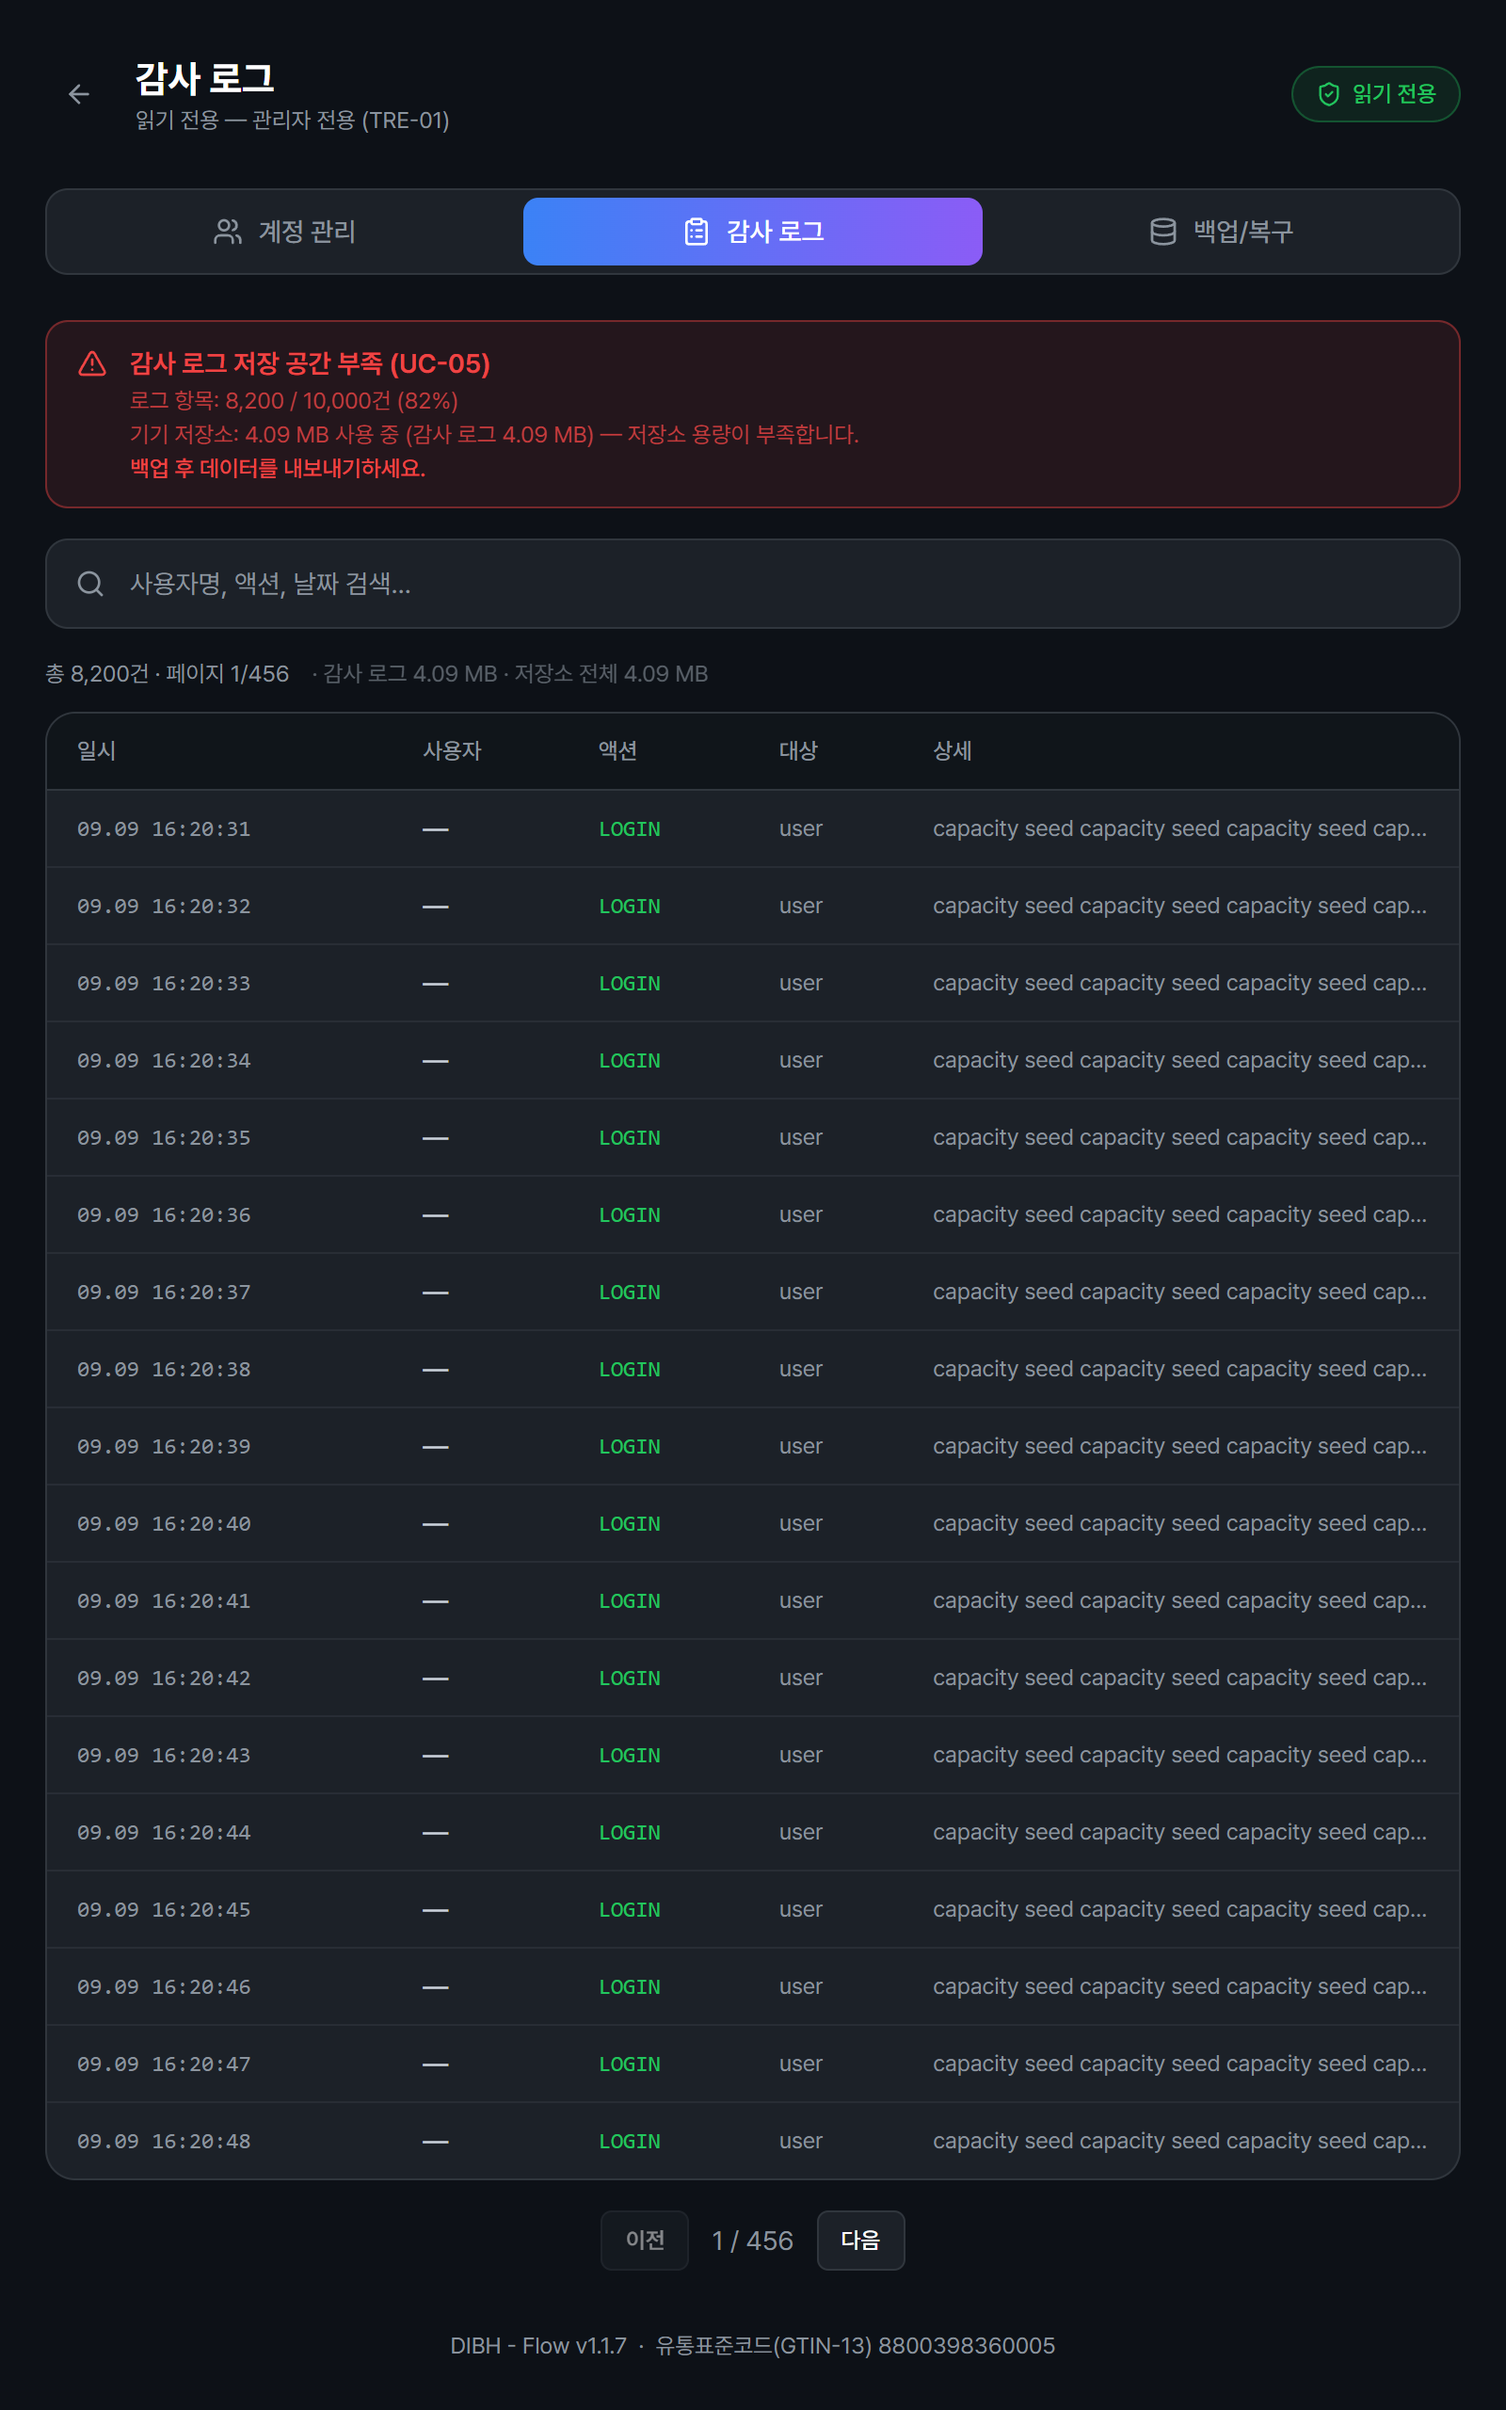
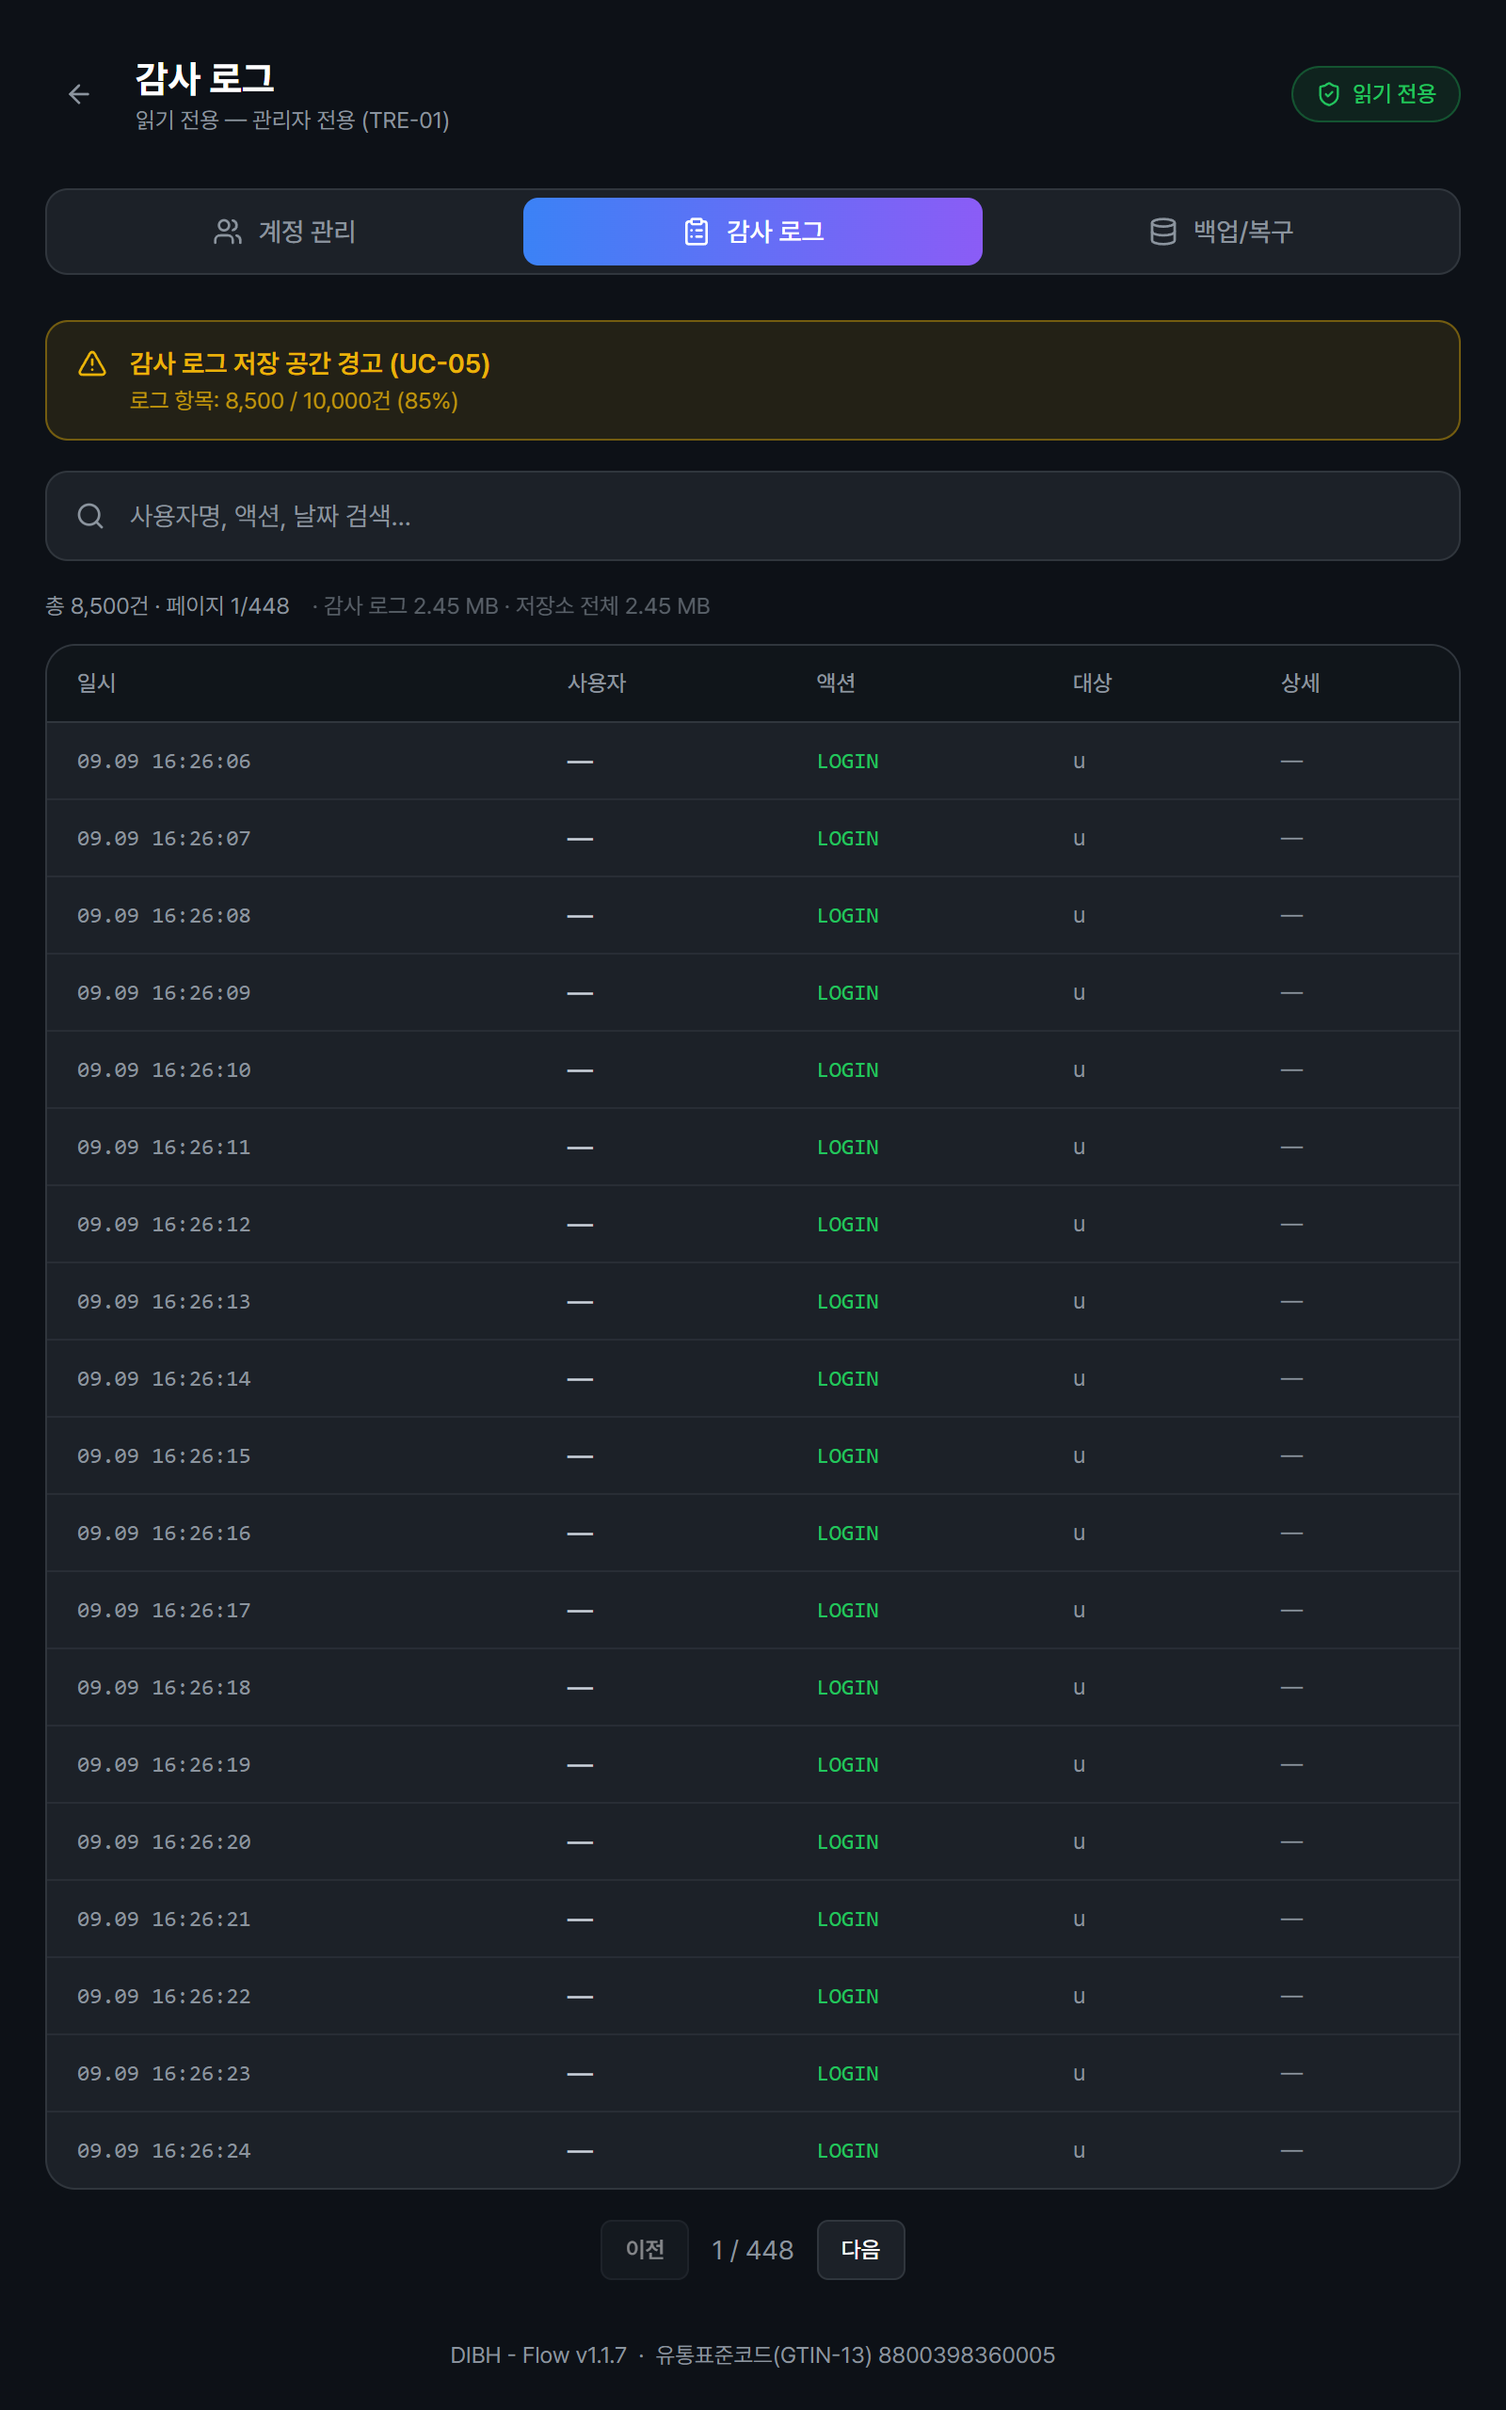
docs(si07): remove two mislabelled frames and two retry duplicates
53 frames now, still covering 76 messages — nothing of evidentiary value was
lost, which the regenerated coverage report confirms.

Two of the four removed were worse than redundant: their filenames named a
message the frame did not actually contain.

  M025_비밀번호_정책_오류…  showed the modal's static requirement checklist,
      captured before submitting — the validatePassword strings (#25-#29)
      only render after a submit, so the frame proved #18/#19 and not the
      messages its name claimed.
  M040_감사_로그_저장_공간_경고  was seeded past 90%, so the banner read
      부족 (critical), not 경고. It was a duplicate of M039 wearing the wrong
      name.

Both names now belong to frames that really do show those messages. A
reviewer opening a file by its name gets what the name says.

The other two (M020b, M023b) were retries I wrote while the original case
appeared to be failing; once the shared modal-targeting fix landed, both the
original and the retry passed and proved the same pair.

Adds frame-index.md mapping every PNG to the message numbers it contains and
how it was obtained, so the 53-vs-76 difference is visible rather than
something the reader has to take on trust.

diff --git a/docs/submission/evidence/v1.1.7-error-list/frame-index.md b/docs/submission/evidence/v1.1.7-error-list/frame-index.md
@@ -1,0 +1,62 @@
+# 캡처 프레임 ↔ 메시지 대응표
+
+PNG 53장이 커버하는 메시지를 각 프레임의 **화면 전체 텍스트**와 목록 문구를
+대조하여 산출한 표입니다. 한 장에 여러 메시지가 담기므로 장수와 메시지 수는 다릅니다.
+
+| 파일 | 담긴 메시지 | 획득 방식 |
+|---|---|---|
+| `M001_암호화_키_오류_실기기.png` | #1, #2 | 실기기 |
+| `M003_무결성_검사_실패_파일변조_실기기.png` | #3, #4, #13 | 실기기 |
+| `M007_Web_Crypto_API_사용_불가.png` | #5, #6, #7 | user-action |
+| `M008_암호화_자가진단_실패.png` | #5, #6, #8 | user-action |
+| `M009_sessionStorage_사용_불가.png` | #5, #6, #9 | user-action |
+| `M010_localStorage_사용_불가.png` | #5, #6, #10 | user-action |
+| `M011_무결성_매니페스트_로드불가_실기기.png` | #3, #4, #11 | 실기기 |
+| `M012_무결성_검사_파일_로드_실패_실기기.png` | #3, #4, #12 | 실기기 |
+| `M014_아이디_또는_비밀번호가_올바르지_않습니다_(남은_시도).png` | #14 | user-action |
+| `M015_로그인_시도_횟수를_초과하여_계정이_잠금되었습니다.png` | #15 | user-action |
+| `M016_계정이_잠금되었습니다_약_N분_후_다시_시도.png` | #16 | user-action |
+| `M017_이_계정의_데이터가_손상되어_복호화할_수_없습니다.png` | #17 | user-action |
+| `M018_초기_비밀번호_변경_필요.png` | #18, #19 | user-action |
+| `M020_비밀번호_변경_주기_도래.png` | #20, #21 | user-action |
+| `M023_비밀번호_변경_예정_안내.png` | #22, #23 | user-action |
+| `M024b_비밀번호가_일치하지_않습니다.png` | #18, #19, #24 | user-action |
+| `M025_비밀번호_정책_오류_5건.png` | #18, #19, #25, #26, #28, #29 | user-action |
+| `M027_소문자(a-z)를_포함해야_합니다.png` | #18, #19, #27 | user-action |
+| `M030_아이디를_입력하세요.png` | #30 | user-action |
+| `M031_아이디는_영문_숫자_만_사용_가능하며_2~30자.png` | #31 | user-action |
+| `M032_이미_존재하는_아이디입니다.png` | #32 | user-action |
+| `M033_사용자를_찾을_수_없습니다.png` | #33 | user-action |
+| `M034_마지막_관리자_계정의_권한은_변경할_수_없습니다.png` | #34 | user-action |
+| `M037_공지_문구는_최대_N자까지_입력할_수_있습니다.png` | #37 | user-action |
+| `M038_[복호화_실패]_환자_이름_표시값.png` | #38 | user-action |
+| `M039_감사_로그_저장_공간_부족_(UC-05).png` | #39, #41, #42, #43 | user-action |
+| `M040_감사_로그_저장_공간_경고_(UC-05).png` | #40 | seeded state |
+| `M044_백업_생성에_실패했습니다.png` | #44 | user-action |
+| `M045c_비식별_내보내기에_실패했습니다.png` | #45 | induced-fault (export write) |
+| `M046d_백업_파일의_무결성_검증에_실패했습니다.png` | #46 | real artefact (envelope hash mismatch) + user action |
+| `M047_복호화에_실패했습니다_(다른_설치_키로_만든_백업).png` | #47 | real artefact (foreign-key backup) + user action |
+| `M048b_복구에_실패했습니다___올바른_백업_파일인지_확인해_주세요.png` | #48 | induced-fault (message-less error) |
+| `M049_파일을_저장할_수_없습니다___파일_저장_중_오류.png` | #49, #50 | user-action |
+| `M052_일반호흡_데이터는_최대_10개까지_저장됩니다.png` | #52, #53 | user-action |
+| `M054_DIBH_데이터는_최대_10개까지_저장됩니다.png` | #54, #55 | user-action |
+| `M056_CSV_또는_VXP만_업로드할_수_있습니다.png` | #56, #57 | user-action |
+| `M060b_삭제_실패___파일_삭제_중_오류_(호흡_데이터_추가).png` | #60, #61 | induced-fault (database write) |
+| `M062_환자를_찾을_수_없습니다.png` | #62, #63 | user-action |
+| `M064_저장에_실패했습니다___환자_정보를_저장하는_중_오류.png` | #64, #65 | user-action |
+| `M067_누락된_항목_안내.png` | #67, #80 | user-action |
+| `M068_누락된_항목을_확인해_주세요.png` | #67, #68 | user-action |
+| `M070_환자_정보_저장에_실패했습니다.png` | #51, #64, #70 | user-action |
+| `M071b_파일_삭제_실패_(분석할_파일_선택).png` | #60, #61, #71 | induced-fault (database write) |
+| `M072_분석_중_오류가_발생했습니다_(폴백).png` | #72 | induced-fault (message-less error) |
+| `M073_일반호흡_파일을_찾을_수_없습니다.png` | #73 | user-action |
+| `M074_DIBH_파일을_찾을_수_없습니다.png` | #74 | induced-fault (row removed after selection) |
+| `M075_일반호흡_파일에_유효한_데이터가_없습니다.png` | #75 | user-action |
+| `M076_DIBH_파일에_유효한_데이터가_없습니다.png` | #76 | user-action |
+| `M077_VXP_파일에서_[Data]_섹션을_찾을_수_없습니다.png` | #77 | user-action |
+| `M078c_파일_무결성_오류__저장된_이후_파일이_변경되었습니다.png` | #78 | induced-fault (contents re-encrypted, stored hash left stale) |
+| `M080_생년월일을_확인해_주세요_예_19900512.png` | #80 | user-action |
+| `M081_등록_전_확인_팝업_구분_주의.png` | #81 | user-action |
+| `M082_파일명과_구분이_일치하지_않는_파일_경고.png` | #81, #82, #83 | user-action |
+
+**합계: 53장 / 고유 메시지 76건**

diff --git a/docs/submission/evidence/v1.1.7-error-list/README.md b/docs/submission/evidence/v1.1.7-error-list/README.md
@@ -12,7 +12,8 @@
 |---|---|
 | `SI-07-오류메시지-전수목록.md` | v1.1.7 기준 메시지 전수 목록 (82건) |
 | `screens/` | 실제조건 화면 캡처 PNG |
-| `capture-results.json` | 캡처 결과 원본 (검증 여부·기대 문구 포함) |
+| `frame-index.md` | **파일 ↔ 메시지 대응표** — 각 PNG가 어떤 번호를 담고 있는지 |
+| `capture-results.json` | 캡처 결과 원본 (검증 여부·기대 문구·획득 방식 포함) |
 
 ## 캡처 방법
 
@@ -40,11 +41,21 @@ node scripts/capture-real-conditions.mjs
 | **실제 표시 가능한 메시지** | **78** |
 | **실제조건 캡처를 확보한 메시지** | **76** |
 | 미확보 | 2 (#58, #59) |
-| PNG 파일 수 | 57 |
+| PNG 파일 수 | 53 |
 
-한 장에 여러 메시지가 함께 담기므로(토스트 제목+설명, 차단 화면의 제목+본문+상세)
-파일 수와 메시지 수는 다릅니다. 정확한 대응은 `coverage.txt` 에 각 캡처의 **화면 전체
-텍스트**를 목록 문구와 대조하여 기계적으로 산출해 두었습니다.
+**한 장에 여러 메시지가 담기므로 파일 수(53)와 메시지 수(76)는 일치하지 않습니다.**
+토스트는 제목과 설명이 각각 별개 항목이고, 시작 차단 화면은 제목·본문·상세 3건이
+한 화면에 함께 나타납니다. 예를 들어 `M003…실기기.png` 한 장이 #3·#4·#13 을 담습니다.
+
+어떤 파일이 어떤 번호를 담고 있는지는 `frame-index.md` 에 표로 정리되어 있으며,
+미확보 항목은 `coverage.txt` 에 있습니다. 둘 다 각 프레임의 **화면 전체 텍스트**를
+목록 문구와 대조하여 기계적으로 산출한 것입니다.
+
+> **중복 정리 (2026-09-10)**: 재시도로 생긴 중복 2장과, **파일명이 실제로 담기지 않은
+> 메시지를 가리키던 2장**을 제거했습니다. 후자는 `M025`(제출 전 화면이라 정책 오류 문구가
+> 아직 없었음)와 `M040`(경고가 아니라 부족 상태였음)으로, 파일명만 보고 증적으로 쓰면
+> 오해를 부를 수 있어 삭제하고 올바른 프레임에 그 이름을 부여했습니다.
+> 제거 후에도 커버리지는 76건으로 변동 없습니다.
 
 ### 캡처 방식별 구분
 
